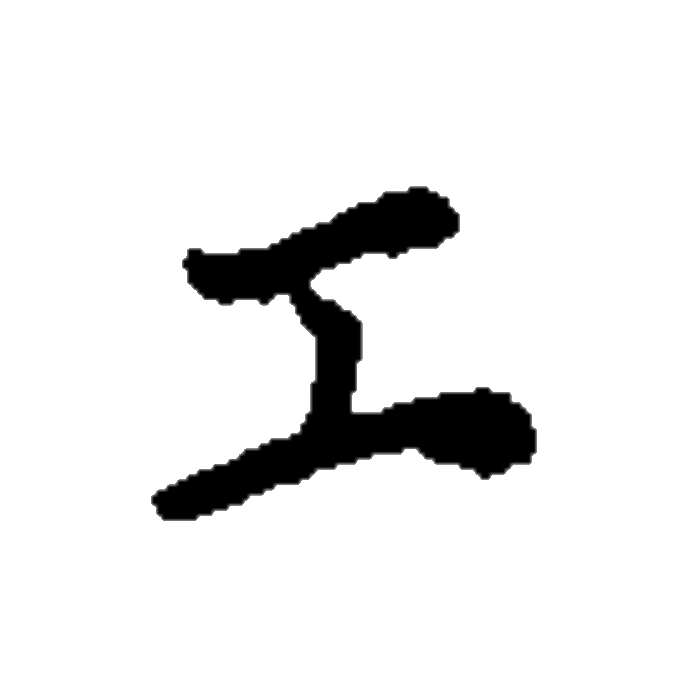
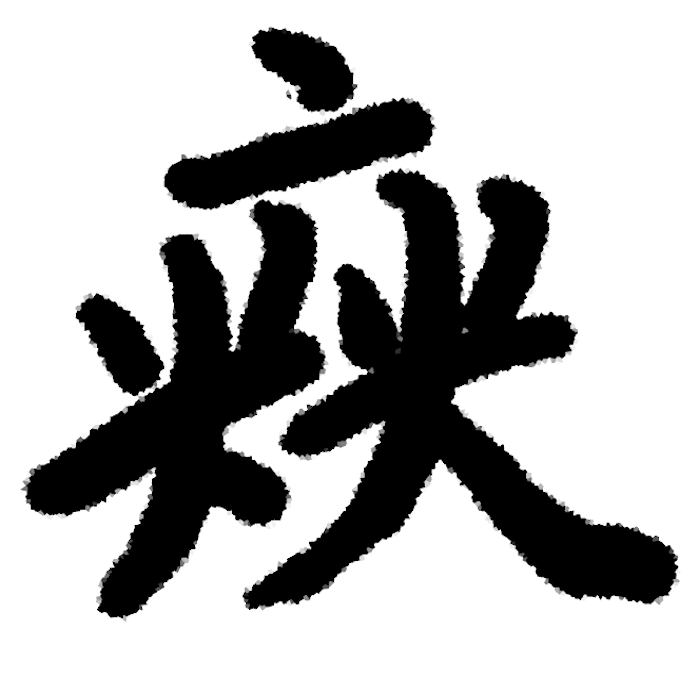
柱見出しと画像修正

Changed region(s): [[0.0301, 0.0301, 0.9943, 0.9039]]

diff --git a/vivliostyle/1_04_人.html b/vivliostyle/1_04_人.html
@@ -25,12 +25,12 @@
 
     @page:nth(2) {
         @top-left { content: "人"; }
-        @top-right { content: "残"; }
+        @top-right { content: "待"; }
     }
 
     @page:nth(3) {
         @top-left { content: "待"; }
-        @top-right { content: "果"; }
+        @top-right { content: "将"; }
     }
 
     @page:nth(4) {
@@ -50,16 +50,11 @@
 
     @page:nth(7) {
         @top-left { content: "集"; }
-        @top-right { content: "友"; }
+        @top-right { content: "労"; }
     }
 
     @page:nth(8) {
-        @top-left { content: "友"; }
-        @top-right { content: "席"; }
-    }
-
-    @page:nth(9) {
-        @top-left { content: "淮"; }
+        @top-left { content: "労"; }
         @top-right { content: "淮"; }
     }
 </style>

diff --git a/vivliostyle/2_15_神十位.html b/vivliostyle/2_15_神十位.html
@@ -20,11 +20,11 @@
     /* それぞれのページ指定では柱見出しを両側に指定しておき、上記ルールにより片方だけ潰す */
     @page:nth(1) {
         @top-left { content: "神"; }
-        @top-right { content: "十"; }
+        @top-right { content: "唯"; }
     }
 
     @page:nth(2) {
-        @top-left { content: "唯"; }
+        @top-left { content: "位"; }
         @top-right { content: "位"; }
     }
 </style>

diff --git a/vivliostyle/1_06_一ノ.html b/vivliostyle/1_06_一ノ.html
@@ -30,11 +30,11 @@
 
     @page:nth(3) {
         @top-left { content: "静"; }
-        @top-right { content: "哇"; }
+        @top-right { content: "哦"; }
     }
 
     @page:nth(4) {
-        @top-left { content: "哦"; }
+        @top-left { content: "啌"; }
         @top-right { content: "汪"; }
     }
 </style>

diff --git a/vivliostyle/1_12_口.html b/vivliostyle/1_12_口.html
@@ -40,11 +40,11 @@
 
     @page:nth(5) {
         @top-left { content: "与"; }
-        @top-right { content: "同"; }
+        @top-right { content: "類"; }
     }
 
     @page:nth(6) {
-        @top-left { content: "類"; }
+        @top-left { content: "輩"; }
         @top-right { content: "輩"; }
     }
 </style>

diff --git a/vivliostyle/1_03_六.html b/vivliostyle/1_03_六.html
@@ -55,11 +55,11 @@
 
     @page:nth(8) {
         @top-left { content: "行"; }
-        @top-right { content: "寝"; }
+        @top-right { content: "急"; }
     }
 
     @page:nth(9) {
-        @top-left { content: "壊"; }
+        @top-left { content: "急"; }
         @top-right { content: "銭"; }
     }
 

diff --git a/vivliostyle/2_09_再.html b/vivliostyle/2_09_再.html
@@ -34,7 +34,7 @@
     }
 
     @page:nth(4) {
-        @top-left { content: "磨"; }
+        @top-left { content: "端"; }
         @top-right { content: "木"; }
     }
 
